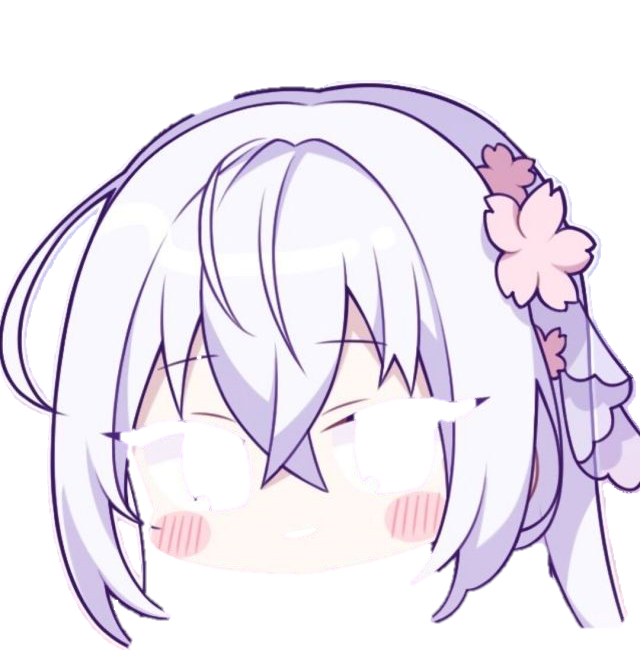
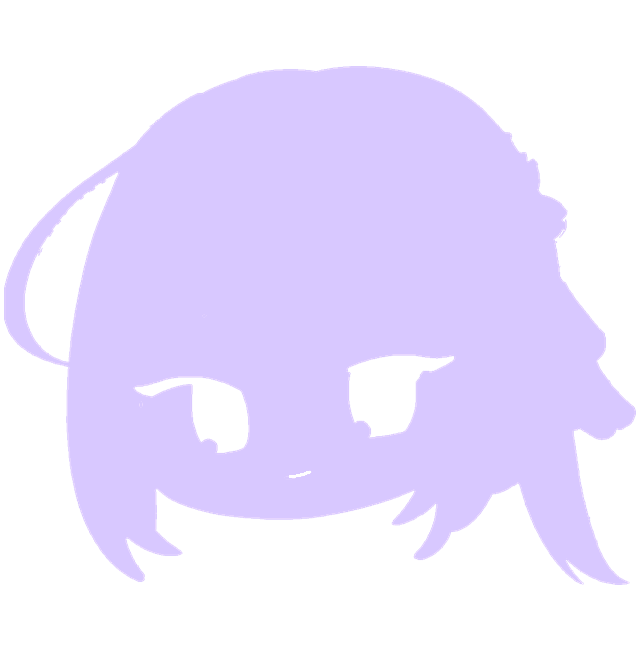
chore(docs): update brand image and README

diff --git a/src/ui/brand.rs b/src/ui/brand.rs
@@ -2,7 +2,7 @@ use crate::theme;
 use iced::alignment::{Horizontal, Vertical};
 use iced::widget::{Space, Stack, container, image as iced_image, row, text};
 use iced::{Alignment, Element, Fill, Padding};
-use std::{collections::VecDeque, sync::OnceLock};
+use std::sync::OnceLock;
 
 const HERO_HEIGHT: f32 = 258.0;
 const WORDMARK_WIDTH: f32 = 540.0;
@@ -138,57 +138,11 @@ fn silhouette_handle() -> iced_image::Handle {
 
 fn tinted_source() -> Option<::image::RgbaImage> {
     let mut source = ::image::load_from_memory(GIRL_SOURCE).ok()?.into_rgba8();
-    fill_small_transparent_holes(&mut source, 32);
     for pixel in source.pixels_mut() {
         let alpha = pixel[3];
         *pixel = ::image::Rgba([0xD8, 0xC8, 0xFF, alpha]);
     }
     Some(source)
-}
-
-/// Repairs accidental pinholes in otherwise opaque artwork while preserving
-/// intentional cut-outs such as the eyes, mouth, and exterior transparency.
-fn fill_small_transparent_holes(source: &mut ::image::RgbaImage, maximum_area: usize) {
-    let (width, height) = source.dimensions();
-    let mut seen = vec![false; (width * height) as usize];
-    for y in 0..height {
-        for x in 0..width {
-            let start = (y * width + x) as usize;
-            if seen[start] || source.get_pixel(x, y)[3] != 0 {
-                continue;
-            }
-            let mut queue = VecDeque::from([(x, y)]);
-            let mut component = Vec::new();
-            let mut reaches_edge = false;
-            seen[start] = true;
-            while let Some((current_x, current_y)) = queue.pop_front() {
-                component.push((current_x, current_y));
-                reaches_edge |= current_x == 0
-                    || current_y == 0
-                    || current_x + 1 == width
-                    || current_y + 1 == height;
-                for (next_x, next_y) in [
-                    (current_x.wrapping_sub(1), current_y),
-                    (current_x + 1, current_y),
-                    (current_x, current_y.wrapping_sub(1)),
-                    (current_x, current_y + 1),
-                ] {
-                    if next_x < width && next_y < height {
-                        let index = (next_y * width + next_x) as usize;
-                        if !seen[index] && source.get_pixel(next_x, next_y)[3] == 0 {
-                            seen[index] = true;
-                            queue.push_back((next_x, next_y));
-                        }
-                    }
-                }
-            }
-            if !reaches_edge && component.len() <= maximum_area {
-                for (hole_x, hole_y) in component {
-                    source.get_pixel_mut(hole_x, hole_y)[3] = 0xFF;
-                }
-            }
-        }
-    }
 }
 
 #[cfg(test)]
@@ -214,16 +168,31 @@ mod tests {
     }
 
     #[test]
-    fn silhouette_repairs_only_small_holes_and_uses_one_color() {
+    fn silhouette_preserves_exterior_and_generated_cutouts() {
         let source = ::image::load_from_memory(GIRL_SOURCE)
             .expect("source PNG")
             .into_rgba8();
         let tinted = tinted_source().expect("tinted PNG");
         assert_eq!(source.dimensions(), tinted.dimensions());
-        assert_eq!(source.get_pixel(198, 357)[3], 0);
-        assert_eq!(tinted.get_pixel(198, 357)[3], 0xFF);
-        assert_eq!(source.get_pixel(300, 532)[3], 0);
-        assert_eq!(tinted.get_pixel(300, 532)[3], 0);
+        assert_eq!(source.get_pixel(300, 30)[3], 0);
+        assert_eq!(tinted.get_pixel(55, 248)[3], 0);
+        assert!(tinted.get_pixel(20, 248)[3] > 0xF0);
+        assert_eq!(tinted.get_pixel(220, 405)[3], 0);
+        assert_eq!(tinted.get_pixel(390, 400)[3], 0);
+    }
+
+    #[test]
+    fn silhouette_face_contains_only_the_intended_mouth_gap() {
+        let tinted = tinted_source().expect("tinted PNG");
+        assert_eq!(tinted.get_pixel(204, 315)[3], 0xFF);
+        assert_eq!(tinted.get_pixel(140, 403)[3], 0xFF);
+        assert!(tinted.get_pixel(290, 477)[3] < 0x80);
+        assert_eq!(tinted.get_pixel(300, 300)[3], 0xFF);
+    }
+
+    #[test]
+    fn silhouette_uses_one_color() {
+        let tinted = tinted_source().expect("tinted PNG");
         assert!(
             tinted
                 .pixels()

diff --git a/src/ui/resource_browser/files.rs b/src/ui/resource_browser/files.rs
@@ -69,7 +69,6 @@ pub(super) fn view<'a>(
                             row![
                                 text(&file.display_name)
                                     .size(16)
-                                    .width(Fill)
                                     .wrapping(Wrapping::WordOrGlyph),
                                 text(release_label(file.release_type))
                                     .font(theme::BODY_BOLD)
@@ -77,6 +76,7 @@ pub(super) fn view<'a>(
                                     .color(release_color(file.release_type))
                             ]
                             .spacing(8)
+                            .align_y(Alignment::Center)
                             .width(Fill),
                             text(format!(
                                 "{} // {} // {}",
@@ -102,7 +102,6 @@ pub(super) fn view<'a>(
                                 available.then_some(Message::ResourceFilePicked(file.clone()))
                             )
                             .padding([9, 13])
-                            .width(Length::Fixed(116.0))
                             .style(theme::primary_button)
                     ]
                     .spacing(10)

diff --git a/src/app/install/mod.rs b/src/app/install/mod.rs
@@ -6,7 +6,10 @@ mod wizard;
 pub(crate) use modpacks::ModpackBrowserState;
 pub(crate) use wizard::{LoaderCatalogState, WizardDraft};
 
-use super::{Launcher, Message, navigation::Route};
+use super::{
+    Launcher, Message,
+    navigation::{Route, WizardStep},
+};
 use crate::{
     domain::{InstallProgress, InstallRequest, InstallStage, PipelineEvent},
     services::installer,
@@ -179,6 +182,7 @@ impl Launcher {
             if self.route == Route::Installation(id) {
                 self.route = Route::instance(id);
             }
+            self.wizard_step = WizardStep::Version;
             self.save();
             self.notice = Some("Instance installed. It is ready to launch.".into());
             return self.refresh_insights();

diff --git a/src/ui/shell/titlebar.rs b/src/ui/shell/titlebar.rs
@@ -80,7 +80,7 @@ fn account_button(app: &Launcher) -> Element<'_, Message> {
     )
     .width(240)
     .height(44)
-    .padding([4, 10])
+    .padding([6, 10])
     .on_press(Message::Navigate(Route::Accounts))
     .style(theme::ghost_button)
     .into()

diff --git a/README.md b/README.md
@@ -52,25 +52,80 @@ state.json                accounts/tokens, instances, download policy, and setti
 
 ## Architecture
 
-The UI and launcher operations are intentionally separate:
+AZULC is split into three layers. The UI describes what is shown, the app layer owns
+state and coordinates events, and services perform filesystem, network, installation,
+and process work.
+
+### UI
+
+The UI is a set of stateless Iced views. Pages read `Launcher` state and emit typed
+`Message` values; they do not perform I/O directly.
 
 ```text
-src/ui/*                                stateless Iced pages and brand components
-src/app/{launch,install,instance}/*     feature-scoped request state and orchestration
-src/app/{message,update,navigation}.rs  root event dispatch and cross-feature coordination
-src/domain.rs                           serializable accounts, instances, settings, and pipeline types
-src/services/auth/*                     account authentication and profile retrieval
-src/services/catalog/*                  provider-neutral catalog models, discovery, and resource installation
-src/services/providers/*                internal CurseForge and Modrinth protocol clients and DTOs
-src/services/download/*                 bounded downloads, mirrors, checksums, and atomic file operations
-src/services/content.rs                 local instance-content scanning
-src/services/insights.rs                dashboard aggregation, version highlights, and service pings
-src/services/loader_catalog.rs          compatible Forge, Fabric, and NeoForge build discovery
-src/services/minecraft.rs               Minecraft metadata, planning, verification, and parallel downloads
-src/services/modpack.rs                 safe CurseForge/Modrinth/MultiMC archive inspection and overrides
-src/services/installer.rs               the continuous loader-aware install state machine
-src/services/launcher.rs                arguments, LWJGL/native merging, process output, and readiness monitoring
+src/ui/
+├── mod.rs                  route-to-view dispatch and overlay composition
+├── shell/                  title bar, sidebar, and resize frame
+├── overlays/               delete confirmation and launch authentication
+├── components/             shared icons, media, catalog, layout, and avatars
+├── instance/               overview, content, settings, and install activity
+├── wizard/                 Minecraft version, loader, and details steps
+├── modpacks/               online discovery and local archive import
+├── resource_browser/       project search and compatible file selection
+├── settings/               downloads, Java, and about pages
+├── home.rs                 dashboard
+├── accounts.rs             account management
+└── brand.rs                application and window artwork
 ```
+
+### App
+
+The app layer owns mutable launcher state, validates stale asynchronous results, and
+routes every user or service event through the root update loop.
+
+```text
+src/app/
+├── mod.rs                  Launcher state, startup tasks, and subscriptions
+├── message.rs              typed events shared by views and operations
+├── update.rs               root event dispatch and route transitions
+├── navigation.rs           routes, tabs, filters, and wizard steps
+├── install/
+│   ├── mod.rs              install jobs, attempts, retries, and pipeline events
+│   ├── wizard.rs           new-instance draft and loader catalog orchestration
+│   └── modpacks.rs         online and local modpack install requests
+├── instance/               instance editing and resource-browser orchestration
+├── launch/                 authentication and concurrent launch sessions
+├── accounts.rs             Microsoft account state transitions
+├── bootstrap.rs            startup catalog and repair tasks
+└── thumbnails.rs           thumbnail request tracking and caching
+```
+
+### Services
+
+Services contain side-effecting and provider-specific work. They accept explicit
+inputs, return domain values or errors, and remain independent of UI navigation.
+
+```text
+src/services/
+├── auth/                   Microsoft OAuth, token validation, and profile retrieval
+├── catalog/                provider-neutral projects, releases, and install plans
+├── providers/              CurseForge and Modrinth protocol clients and DTOs
+├── download/               mirrors, bounded transfers, hashes, and atomic writes
+├── installer.rs            continuous loader-aware installation pipeline
+├── launcher.rs             JVM arguments, natives, process output, and readiness
+├── minecraft.rs            metadata, planning, verification, and base downloads
+├── loader_catalog.rs       compatible Fabric, Forge, and NeoForge builds
+├── modpack.rs              safe archive inspection, manifests, and overrides
+├── content.rs              local instance-content scanning
+├── insights.rs             dashboard aggregation and service health
+├── java.rs                 Java discovery and runtime selection
+├── thumbnail.rs            trusted thumbnail loading and decoding
+├── path_safety.rs          portable path and filename validation
+├── shell.rs                operating-system file reveal helpers
+└── system_resources.rs     CPU and memory discovery
+```
+
+`src/domain.rs` defines the serializable models shared across the layers, while
+`src/storage.rs` owns application paths and persisted launcher state.
 
 An install does not poll disconnected "download" and "install" jobs. Each stage awaits the preceding future:
 
